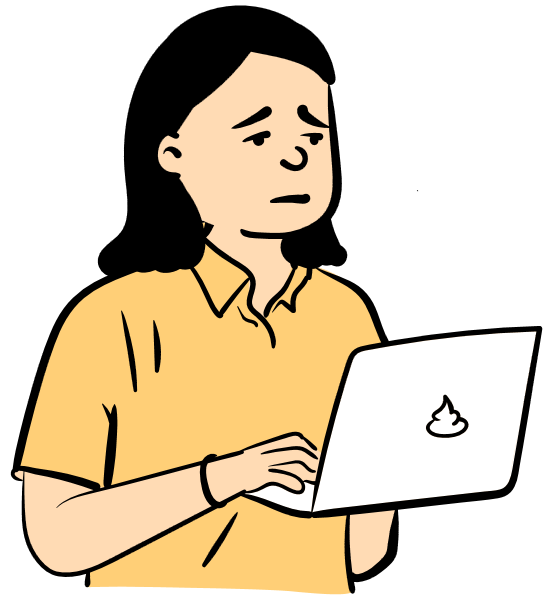
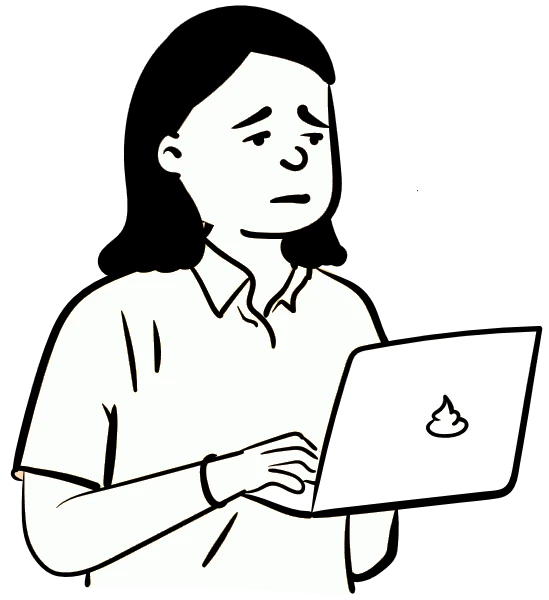
Added open peeps and data

diff --git a/src/components/hooks/useTeamMembers.ts b/src/components/hooks/useTeamMembers.ts
@@ -1,14 +1,55 @@
-import { TeamMemberType } from "../types/TeamMemberType"
+import { TeamMemberType } from "../types/TeamMemberType";
 
 const teamMembers: TeamMemberType[] = [
-    { name: "Robert", email:"dev@rplawski.pl", title: "Fullstack developer", website:"https://robertplawski.pl", motto: 'Nic w życiu jest niemożliwe', profilePicture:"/team/robert.webp"},
-    { name: "Dawid", title: "---", motto:"Lorem ipsum dolor sit amet"},
-    { name: "Karol", title: "Business manager", motto:"Lorem ipsum dolor sit amet" },
-    { name: "Wojtek", title: "---", motto:"Lorem ipsum dolor sit amet" },
-    { name: "Maciek", title: "---", motto:"Lorem ipsum dolor sit amet", website:"https://mpotrz.pl"},
-
-]
+  {
+    name: "Robert",
+    email: "dev@rplawski.pl",
+    title: "Fullstack developer",
+    website: "https://robertplawski.pl",
+    motto: "Nic w życiu jest niemożliwe",
+    profilePicture: "/team/robert.webp",
+  },
+  {
+    name: "Dawid",
+    email: "sudnickidawid@gmail.com",
+    title: "Fullstack developer",
+    website: "https://panwor.vercel.app",
+    motto: "Lorem ipsum dolor sit amet",
+    profilePicture: "/team/dawid.png",
+  },
+  {
+    name: "Karol",
+    email: "synowieckikarol7@gmail.com",
+    title: "Business manager",
+    website: "https://github.com/Syneczek",
+    motto: "Nie mam problemu z kawą, mam problem bez niej",
+    profilePicture: "/team/karol.png",
+  },
+  {
+    profilePicture: "/team/wojciech.png",
+    name: "Wojciech",
+    title: "Senior prompt engineer",
+    motto: "Lorem ipsum dolor sit amet",
+    website: "https://w0jtases.github.io/",
+    email: "wjtases@gmail.com",
+  },
+  {
+    name: "Maciej",
+    email: "maciekp371@gmail.com",
+    title: "Product-focused developer",
+    website: "https://mpotrz.pl",
+    motto: "Lorem ipsum dolor sit amet",
+    profilePicture: "/team/maciej.png",
+  },
+  {
+    name: "Axel",
+    email: "axel.kontakt.eksabajt@wp.pl",
+    title: "Customer service manager",
+    motto: "Mylisz niebo z gwiazdami odbitymi nocą na powierzchni stawu",
+    profilePicture: "/team/axel.png",
+  },
+];
 
 export default function useTeamMembers() {
-    return {teamMembers}
+  return { teamMembers };
 }

diff --git a/src/components/cards/TeamMemberCard.tsx b/src/components/cards/TeamMemberCard.tsx
@@ -54,7 +54,7 @@ export default function TeamMemberCard({
                   height={160}
                   alt={name + "'s profile picture"}
                   src={profilePicture || "/team/member.png"}
-                  className="aspect-square object-contain p-0 bg-green-600/20 rounded-full "
+                  className="aspect-square object-contain p-2 border-2 bg-neutral-400/20 rounded-full "
                 />
               </CardContent>
               <CardDescription className="flex flex-col items-center justify-center mt-2 gap-1">

diff --git a/src/components/sections/TeamSection.tsx b/src/components/sections/TeamSection.tsx
@@ -17,7 +17,7 @@ export default function TeamSection() {
           internetowej w przystępnej cenie."
       />
 
-      <div className="flex flex-row  gap-4 flex-wrap min-w-1/2 justify-center">
+      <div className="flex flex-row  gap-4 flex-wrap min-w-1/2 max-w-7xl justify-center">
         {teamMembers.map((props, index) => (
           <TeamMemberCard key={index} {...props} />
         ))}
